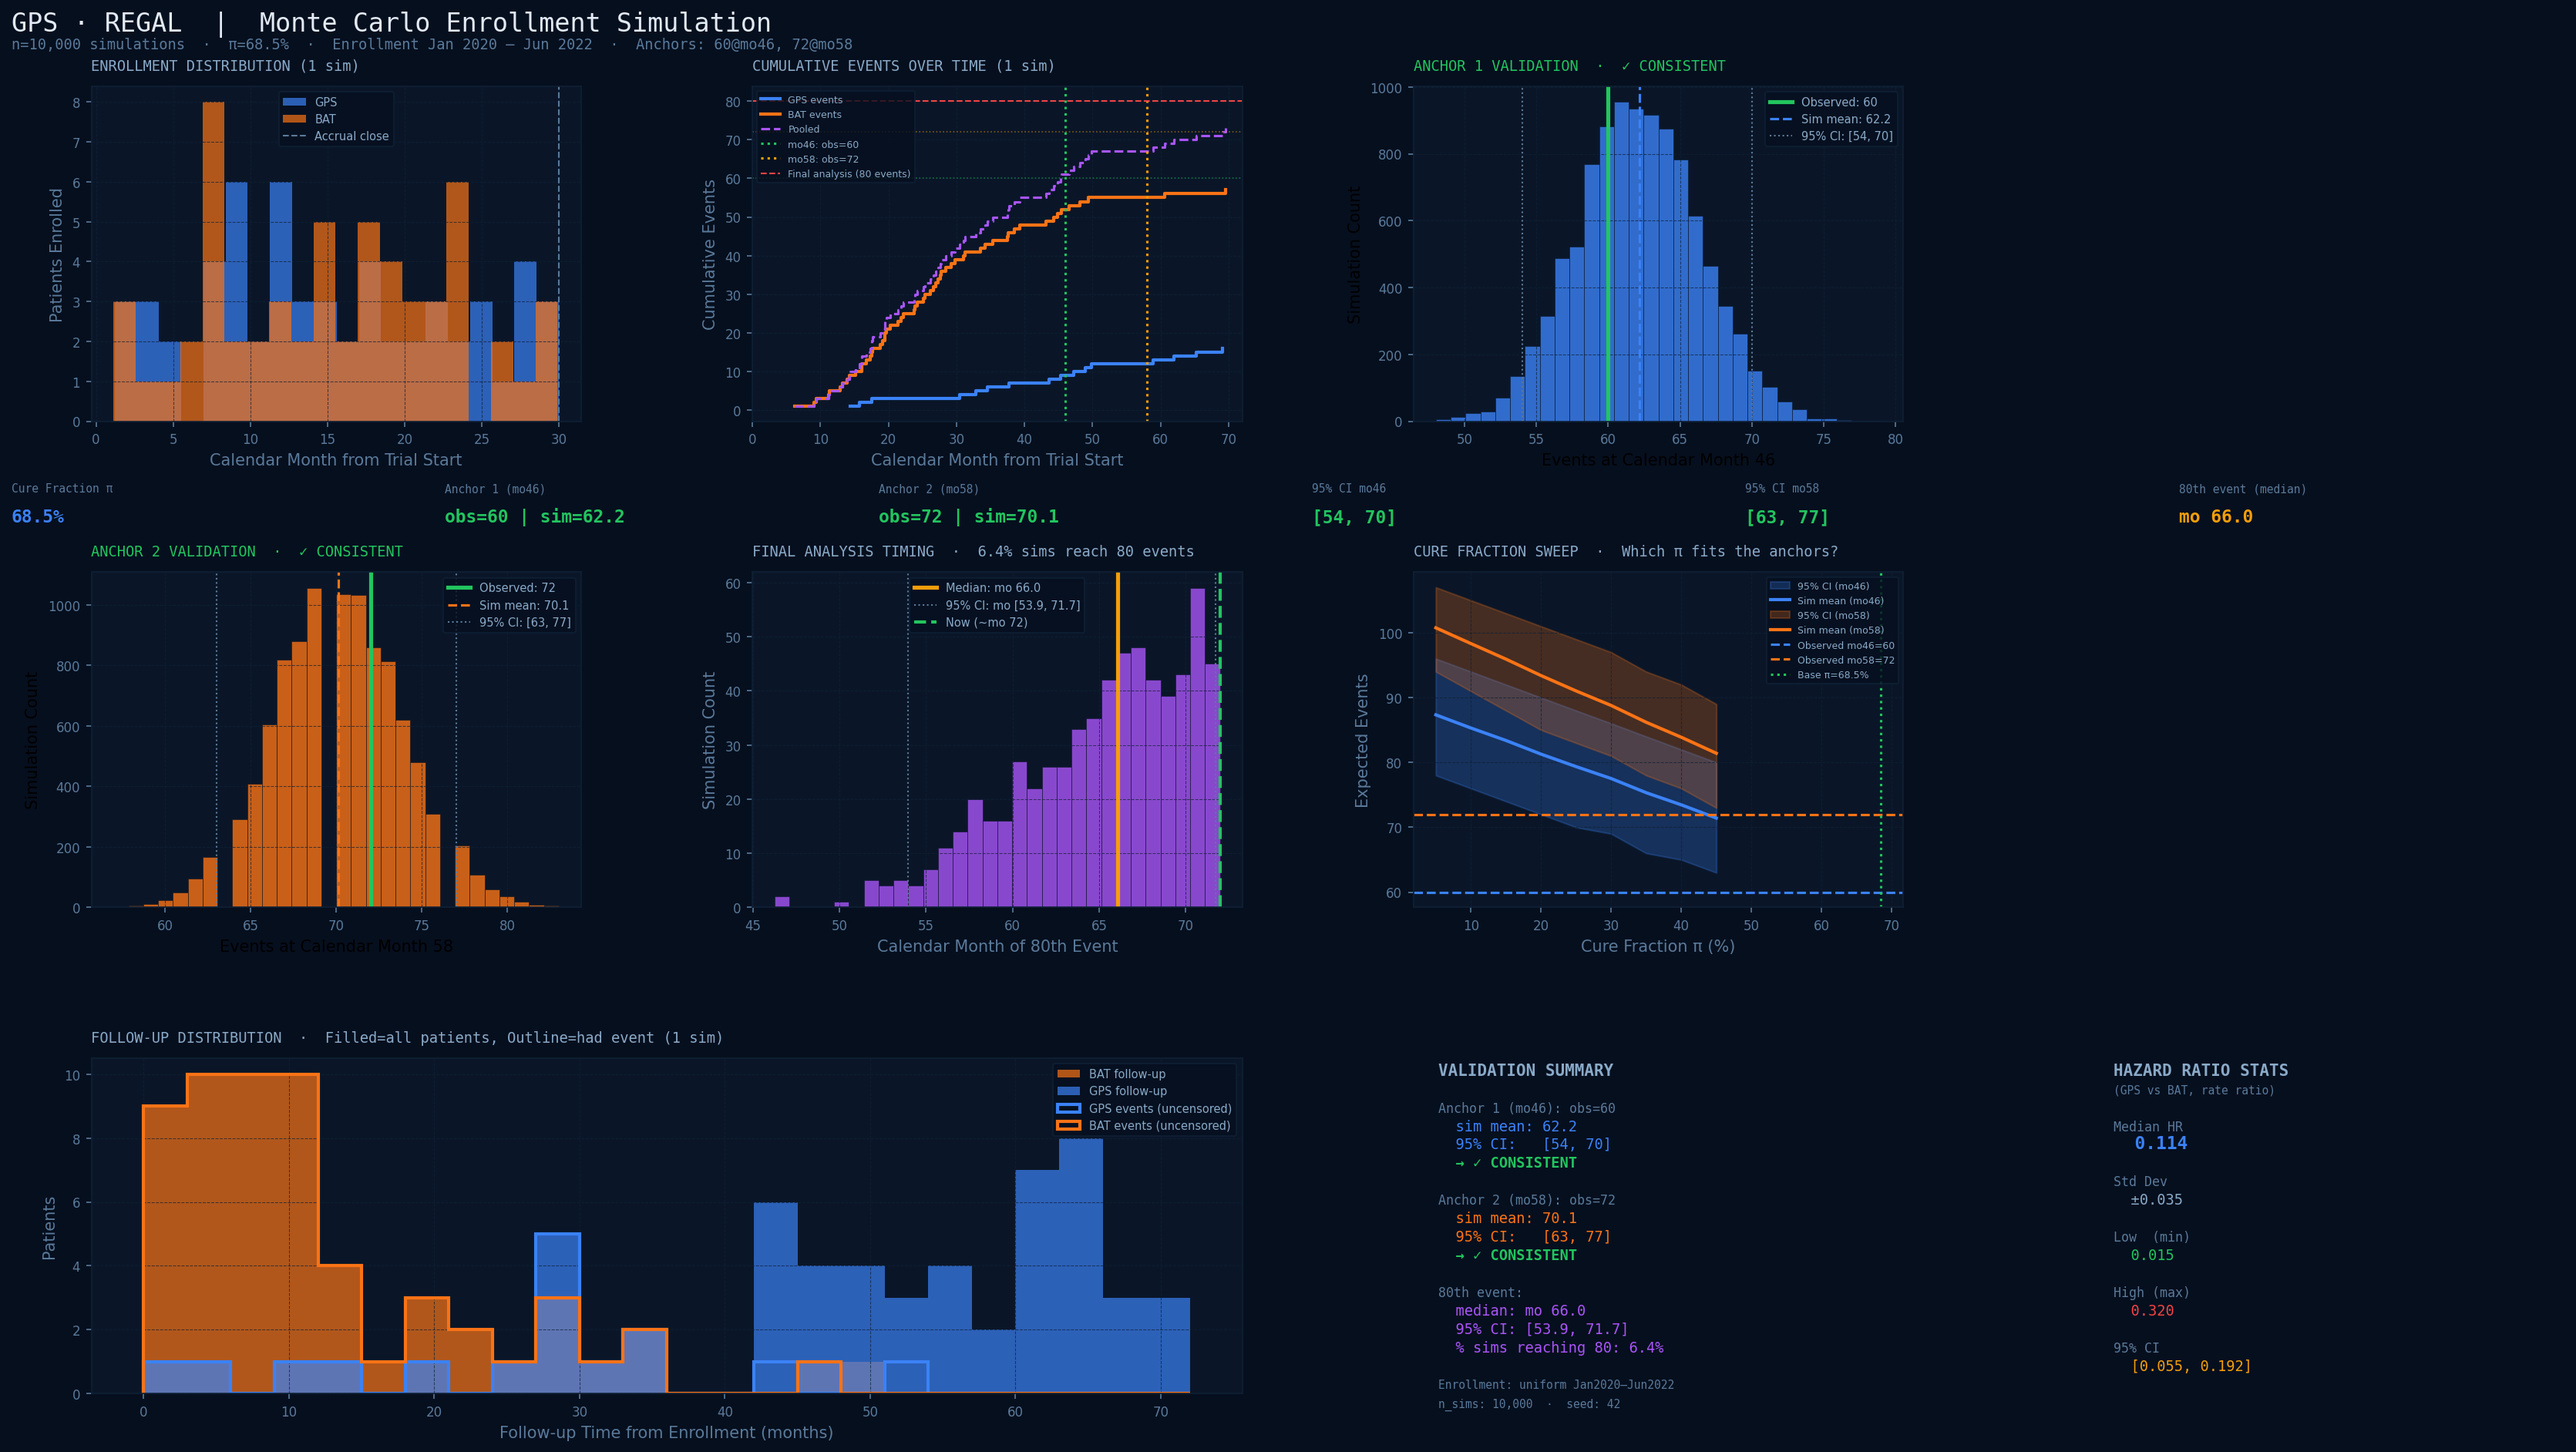
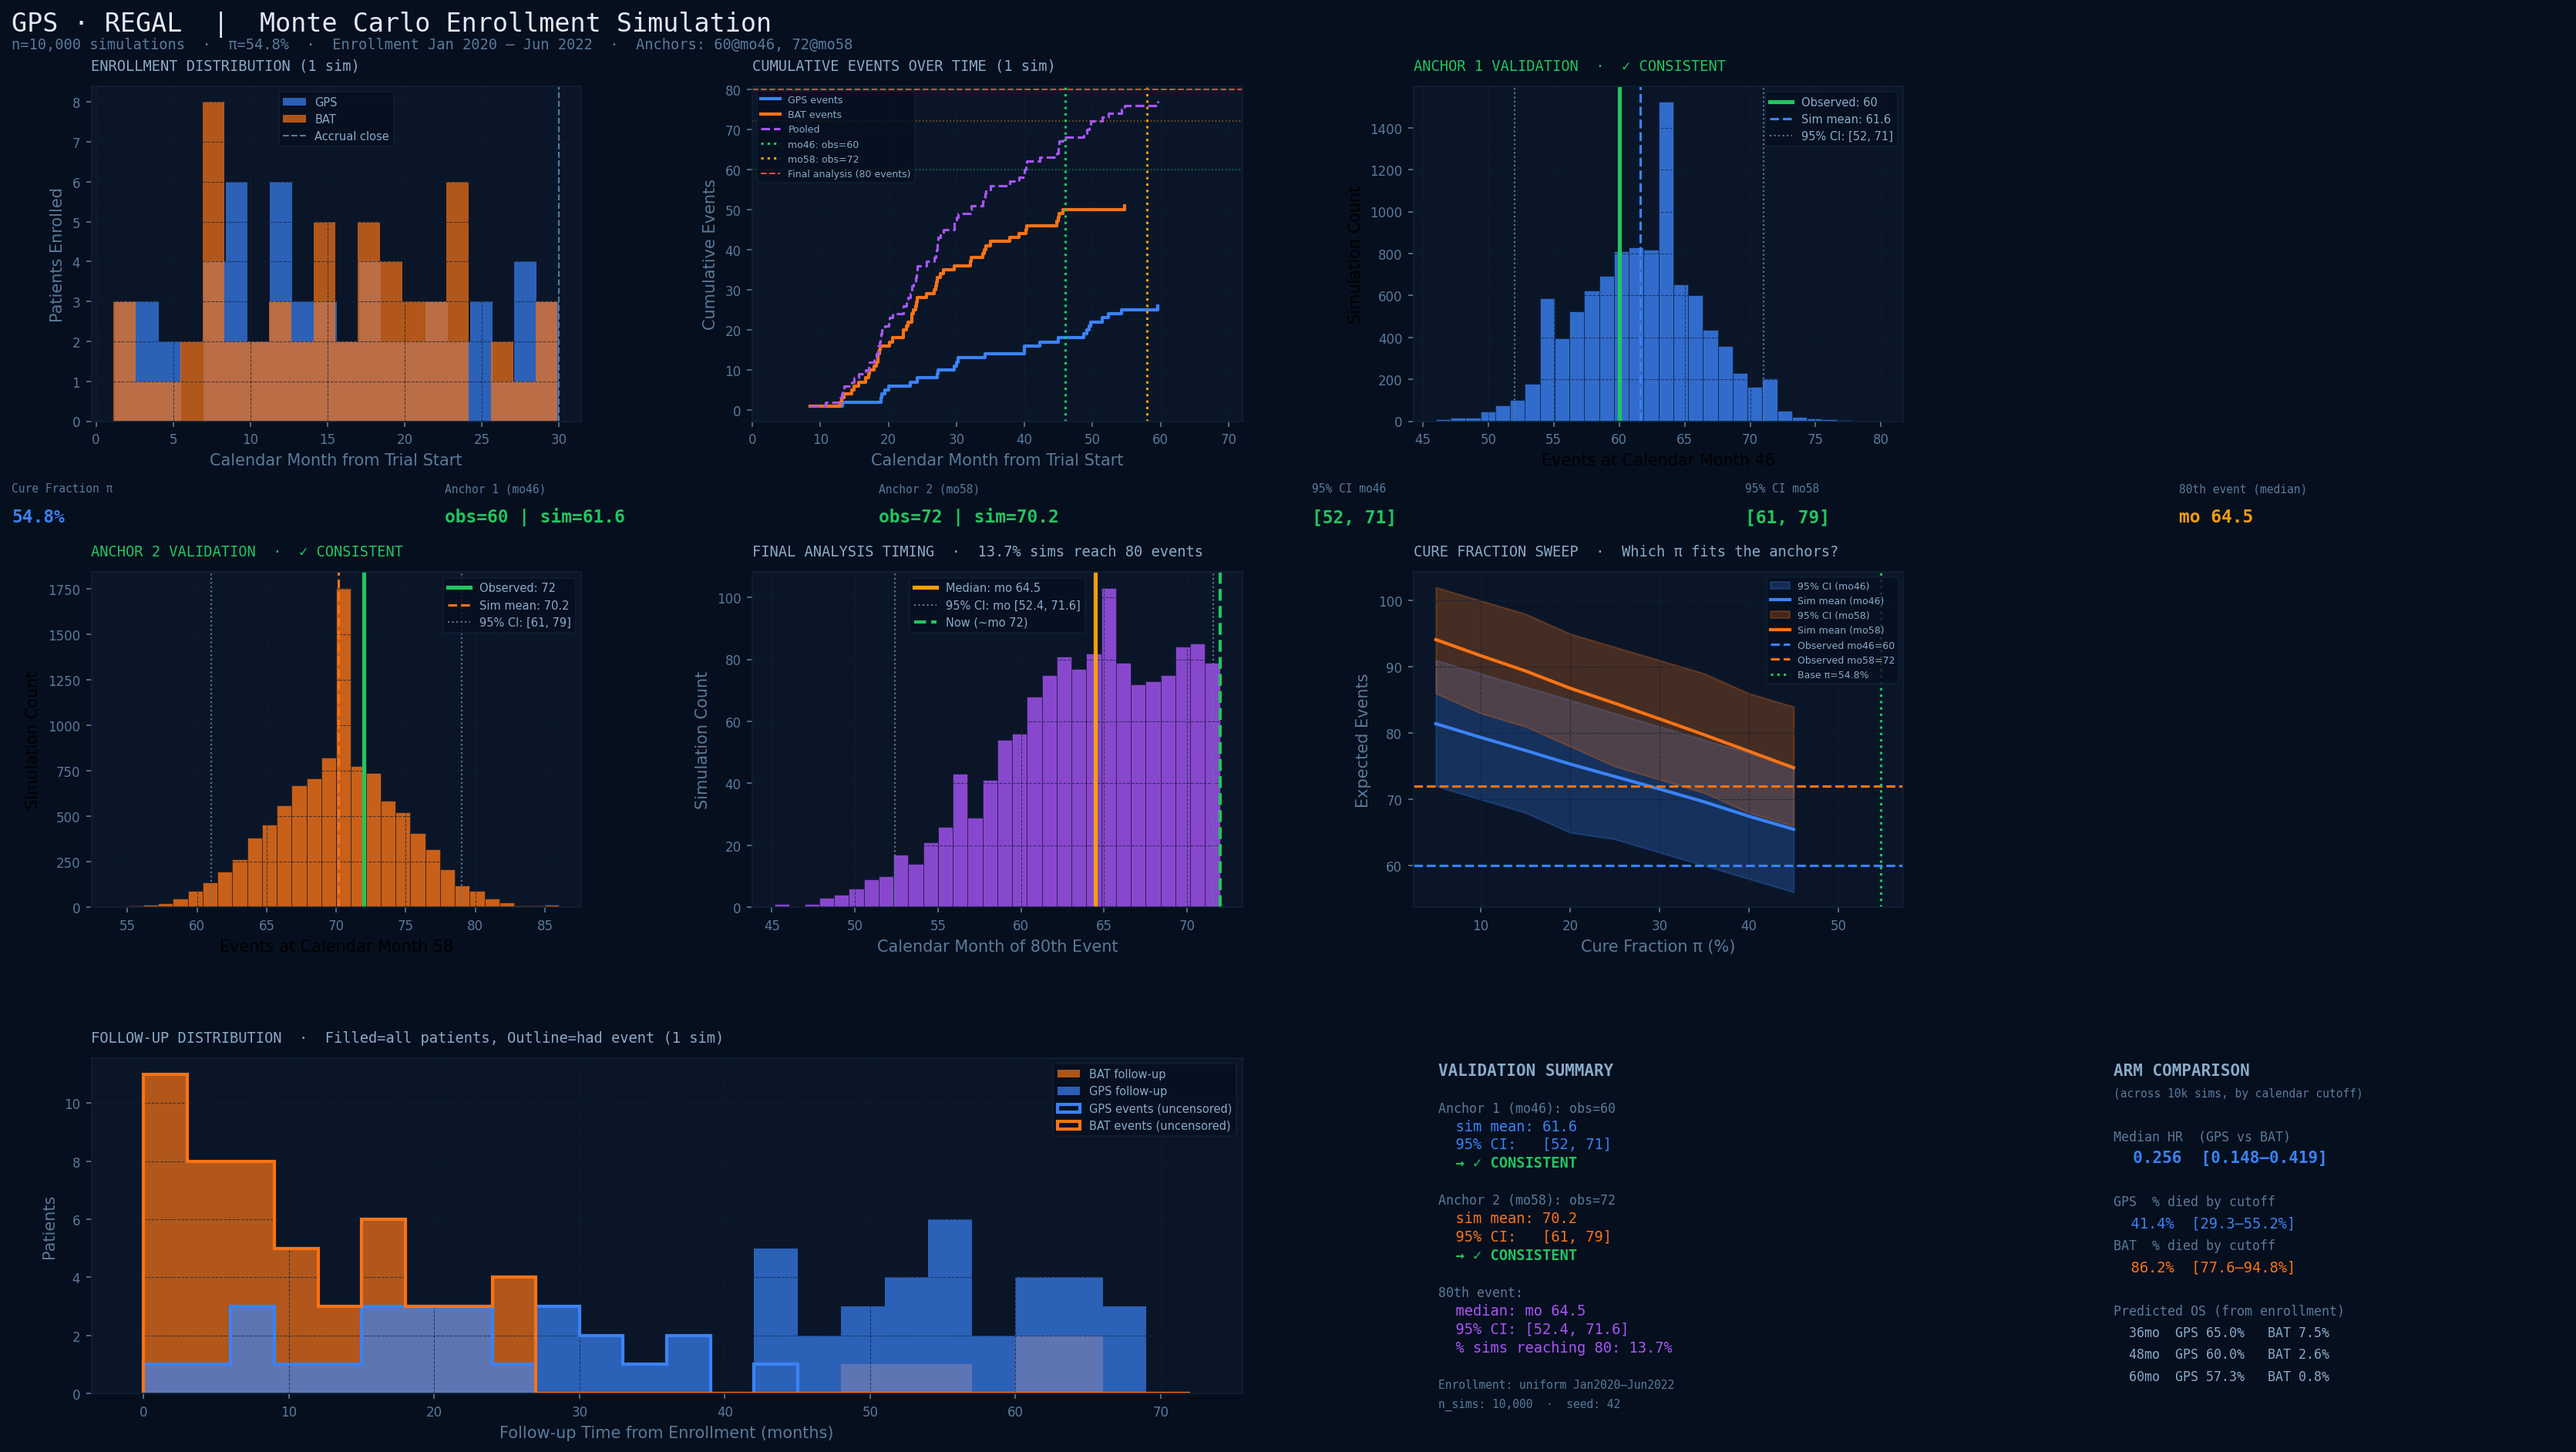
brought down DFS plateau, added a BAT cure fraction from allo-SCT survivors, resulting in lower implied GPS cure fraction (54.8%)

diff --git a/REGAL trial/MonteCarlo_model_GPS.py b/REGAL trial/MonteCarlo_model_GPS.py
@@ -106,13 +106,15 @@ def sample_patient_event_time(
         float: months from enrollment to event (inf = cured / no event)
     """
     if arm == "GPS":
-        # First determine if patient is in the cured fraction
         if rng.uniform() < cure_fraction:
-            return np.inf  # cured — will never have the event
+            return np.inf
         else:
             return sample_weibull_time(p.gps_median_os, p.gps_weibull_shape, rng)
-    else:  # BAT — no cure fraction
-        return sample_weibull_time(p.bat_median_os, p.bat_weibull_shape, rng)
+    else:  # BAT — small cure fraction from allo-SCT long-term survivors
+        if rng.uniform() < p.bat_cure_fraction:
+            return np.inf
+        else:
+            return sample_weibull_time(p.bat_median_os, p.bat_weibull_shape, rng)
 
 
 # ─────────────────────────────────────────────
@@ -225,39 +227,33 @@ def simulate_trial(
     )
     follow_up = np.maximum(follow_up, 0)
 
-    # Mantel-Haenszel HR estimate (GPS vs BAT).
-    # At each observed event time we compare GPS vs BAT risk sets — this avoids
-    # the cured-patient person-time inflation that makes a simple rate ratio too low.
     gps_mask_arms = arms == "GPS"
-    gps_fu = follow_up[gps_mask_arms]
-    bat_fu = follow_up[~gps_mask_arms]
-    gps_ev = had_event[gps_mask_arms]
-    bat_ev = had_event[~gps_mask_arms]
+    n_gps_events  = int(np.sum(had_event[gps_mask_arms]))
+    n_bat_events  = int(np.sum(had_event[~gps_mask_arms]))
 
-    gps_event_times = gps_fu[gps_ev]
-    bat_event_times = bat_fu[bat_ev]
-    all_event_times = np.concatenate([gps_event_times, bat_event_times])
-    unique_times = np.unique(all_event_times)
+    # Mantel-Haenszel HR (GPS vs BAT)
+    gps_fu         = follow_up[gps_mask_arms]
+    bat_fu         = follow_up[~gps_mask_arms]
+    gps_event_times = gps_fu[had_event[gps_mask_arms]]
+    bat_event_times = bat_fu[had_event[~gps_mask_arms]]
+    unique_times    = np.unique(np.concatenate([gps_event_times, bat_event_times]))
 
     if len(unique_times) == 0:
         hr = np.nan
     else:
-        sorted_gps = np.sort(gps_fu)
-        sorted_bat = np.sort(bat_fu)
+        sorted_gps    = np.sort(gps_fu)
+        sorted_bat    = np.sort(bat_fu)
         n_gps_at_risk = len(gps_fu) - np.searchsorted(sorted_gps, unique_times, side="left")
         n_bat_at_risk = len(bat_fu) - np.searchsorted(sorted_bat, unique_times, side="left")
-        n_total = n_gps_at_risk + n_bat_at_risk
-
-        # Deaths per unique time via index mapping
+        n_total       = n_gps_at_risk + n_bat_at_risk
         d_gps = np.zeros(len(unique_times), dtype=int)
         d_bat = np.zeros(len(unique_times), dtype=int)
         np.add.at(d_gps, np.searchsorted(unique_times, gps_event_times), 1)
         np.add.at(d_bat, np.searchsorted(unique_times, bat_event_times), 1)
-
-        valid = n_total > 1
-        mh_num = np.sum(d_gps[valid] * n_bat_at_risk[valid] / n_total[valid])
-        mh_den = np.sum(d_bat[valid] * n_gps_at_risk[valid] / n_total[valid])
-        hr = mh_num / mh_den if mh_den > 0 else np.nan
+        valid   = n_total > 1
+        mh_num  = np.sum(d_gps[valid] * n_bat_at_risk[valid] / n_total[valid])
+        mh_den  = np.sum(d_bat[valid] * n_gps_at_risk[valid] / n_total[valid])
+        hr      = mh_num / mh_den if mh_den > 0 else np.nan
 
     return {
         "enrollment_times":         enroll_times,
@@ -271,6 +267,8 @@ def simulate_trial(
         "month_of_80th_event":      month_80,
         "n_gps":                    n_gps,
         "n_bat":                    n_bat,
+        "n_gps_events":             n_gps_events,
+        "n_bat_events":             n_bat_events,
         "hr":                       hr,
     }
 
@@ -295,6 +293,8 @@ def run_monte_carlo(
     anchor_1_counts = np.zeros(n_sims, dtype=int)
     anchor_2_counts = np.zeros(n_sims, dtype=int)
     month_80_vals   = np.zeros(n_sims)
+    gps_event_pcts  = np.zeros(n_sims)
+    bat_event_pcts  = np.zeros(n_sims)
     hr_vals         = np.zeros(n_sims)
 
     print(f"  Running {n_sims:,} simulations...", end="", flush=True)
@@ -304,6 +304,8 @@ def run_monte_carlo(
         anchor_1_counts[i] = result["n_at_anchor_1"]
         anchor_2_counts[i] = result["n_at_anchor_2"]
         month_80_vals[i]   = result["month_of_80th_event"]
+        gps_event_pcts[i]  = result["n_gps_events"] / result["n_gps"] * 100
+        bat_event_pcts[i]  = result["n_bat_events"] / result["n_bat"] * 100
         hr_vals[i]         = result["hr"]
 
         if (i + 1) % 2000 == 0:
@@ -322,9 +324,6 @@ def run_monte_carlo(
 
     # Filter inf for month_80 stats
     finite_80 = month_80_vals[np.isfinite(month_80_vals)]
-
-    # HR stats (drop NaNs)
-    finite_hr = hr_vals[np.isfinite(hr_vals)]
 
     return {
         "anchor_1_counts":  anchor_1_counts,
@@ -346,13 +345,14 @@ def run_monte_carlo(
         "m80_median": np.median(finite_80) if len(finite_80) > 0 else np.nan,
         "m80_ci":     np.percentile(finite_80, [2.5, 97.5]) if len(finite_80) > 0 else [np.nan, np.nan],
         "pct_reached_80": len(finite_80) / len(month_80_vals) * 100,
-        # HR statistics
-        "hr_vals":   finite_hr,
-        "hr_median": np.median(finite_hr) if len(finite_hr) > 0 else np.nan,
-        "hr_std":    np.std(finite_hr)    if len(finite_hr) > 0 else np.nan,
-        "hr_min":    np.min(finite_hr)    if len(finite_hr) > 0 else np.nan,
-        "hr_max":    np.max(finite_hr)    if len(finite_hr) > 0 else np.nan,
-        "hr_ci":     np.percentile(finite_hr, [2.5, 97.5]) if len(finite_hr) > 0 else [np.nan, np.nan],
+        # Arm event rates
+        "gps_event_pct_median": np.median(gps_event_pcts),
+        "gps_event_pct_ci":     np.percentile(gps_event_pcts, [2.5, 97.5]),
+        "bat_event_pct_median": np.median(bat_event_pcts),
+        "bat_event_pct_ci":     np.percentile(bat_event_pcts, [2.5, 97.5]),
+        # HR
+        "hr_median": np.median(hr_vals[np.isfinite(hr_vals)]),
+        "hr_ci":     np.percentile(hr_vals[np.isfinite(hr_vals)], [2.5, 97.5]),
     }
 
 
@@ -665,39 +665,47 @@ def plot_simulation_results(
                  transform=ax8.transAxes)
         y -= 0.055
 
-    # ── Panel 9: HR statistics ────────────────────────────────────────
+    # ── Panel 9: Arm comparison ───────────────────────────────────────
     ax9 = fig.add_subplot(gs[2, 3])  # col 3
     ax9.set_facecolor(PANEL_BG)
     ax9.axis("off")
     for spine in ax9.spines.values():
         spine.set_edgecolor(GRID_COL)
 
-    hr_lines = [
-        ("HAZARD RATIO STATS", TEXT_MID, 10, True),
-        ("(GPS vs BAT, rate ratio)", TEXT_DIM, 7, False),
+    t_eval = np.array([36.0, 48.0, 60.0])
+    s_gps  = mixture_cure_survival(t_eval, cure_fraction, p.gps_median_os, p.gps_weibull_shape)
+    s_bat  = weibull_survival(t_eval, p.bat_median_os, p.bat_weibull_shape)
+
+    arm_lines = [
+        ("ARM COMPARISON", TEXT_MID, 10, True),
+        ("(across 10k sims, by calendar cutoff)", TEXT_DIM, 7, False),
         ("", TEXT_DIM, 8, False),
-        (f"Median HR",               TEXT_DIM, 8, False),
-        (f"  {mc['hr_median']:.3f}",  BLUE,     11, True),
+        ("Median HR  (GPS vs BAT)",   TEXT_DIM, 8, False),
+        (f"  {mc['hr_median']:.3f}  "
+         f"[{mc['hr_ci'][0]:.3f}–{mc['hr_ci'][1]:.3f}]",
+         BLUE, 10, True),
         ("", TEXT_DIM, 8, False),
-        (f"Std Dev",                  TEXT_DIM, 8, False),
-        (f"  ±{mc['hr_std']:.3f}",    TEXT_MID, 9, False),
+        ("GPS  % died by cutoff",    TEXT_DIM, 8, False),
+        (f"  {mc['gps_event_pct_median']:.1f}%  "
+         f"[{mc['gps_event_pct_ci'][0]:.1f}–{mc['gps_event_pct_ci'][1]:.1f}%]",
+         BLUE, 9, False),
+        ("BAT  % died by cutoff",    TEXT_DIM, 8, False),
+        (f"  {mc['bat_event_pct_median']:.1f}%  "
+         f"[{mc['bat_event_pct_ci'][0]:.1f}–{mc['bat_event_pct_ci'][1]:.1f}%]",
+         ORANGE, 9, False),
         ("", TEXT_DIM, 8, False),
-        (f"Low  (min)",               TEXT_DIM, 8, False),
-        (f"  {mc['hr_min']:.3f}",     GREEN,    9, False),
-        ("", TEXT_DIM, 8, False),
-        (f"High (max)",               TEXT_DIM, 8, False),
-        (f"  {mc['hr_max']:.3f}",     RED,      9, False),
-        ("", TEXT_DIM, 8, False),
-        (f"95% CI",                   TEXT_DIM, 8, False),
-        (f"  [{mc['hr_ci'][0]:.3f}, {mc['hr_ci'][1]:.3f}]", AMBER, 9, False),
+        ("Predicted OS (from enrollment)", TEXT_DIM, 8, False),
+        (f"  36mo  GPS {s_gps[0]*100:.1f}%   BAT {s_bat[0]*100:.1f}%", TEXT_MID, 8, False),
+        (f"  48mo  GPS {s_gps[1]*100:.1f}%   BAT {s_bat[1]*100:.1f}%", TEXT_MID, 8, False),
+        (f"  60mo  GPS {s_gps[2]*100:.1f}%   BAT {s_bat[2]*100:.1f}%", TEXT_MID, 8, False),
     ]
     y9 = 0.95
-    for text, color, size, bold in hr_lines:
+    for text, color, size, bold in arm_lines:
         ax9.text(0.08, y9, text, color=color, fontsize=size,
                  fontfamily="monospace",
                  fontweight="bold" if bold else "normal",
                  transform=ax9.transAxes)
-        y9 -= 0.055
+        y9 -= 0.065
 
     out_path = os.path.join(
         os.path.dirname(os.path.abspath(__file__)),

diff --git a/REGAL trial/REGAL_model.py b/REGAL trial/REGAL_model.py
@@ -25,13 +25,14 @@ class ModelParams:
     cd8_response_rate: float = 0.86        # 6/7 HLA-A*02+ tested → CD8+ response (Phase 2)
     cd4_response_rate: float = 0.44        # 4/9 patients → CD4+ response (Phase 2)
     hla_neg_pop: float = 0.55              # 
-    cure_fraction_responders: float = 0.575 # ~57.5% DFS plateau in immunologic responders (Fig 5)
-    cure_fraction_hla_neg: float = 0.3
+    cure_fraction_responders: float = 0.38  # conservative DFS plateau in immunologic responders
+    cure_fraction_hla_neg: float = 0.15    # lowered from 0.30 — HLA-neg benefit is speculative
     hla_neg_cure_fraction: float = 0.025   # Small residual cure via non-A*02 MHC I + CD4 epitopes
 
-    # BAT arm — historical AML CR2 (not eligible for transplant)
-    bat_median_os: float = 12.0           # months; literature range 8–16mo
+    # BAT arm — AML CR2 including allo-SCT eligible patients
+    bat_median_os: float = 12.0            # months for susceptible (non-allo-SCT-cured) BAT patients
     bat_weibull_shape: float = 1.2         # k > 1 = increasing hazard (appropriate for AML)
+    bat_cure_fraction: float = 0.12        # ~12% long-term survivors via allo-SCT (~35% get SCT × ~35% cure)
 
     # GPS arm — non-cured susceptible subpopulation
     gps_median_os: float = 20.0            # months for non-cured GPS patients
